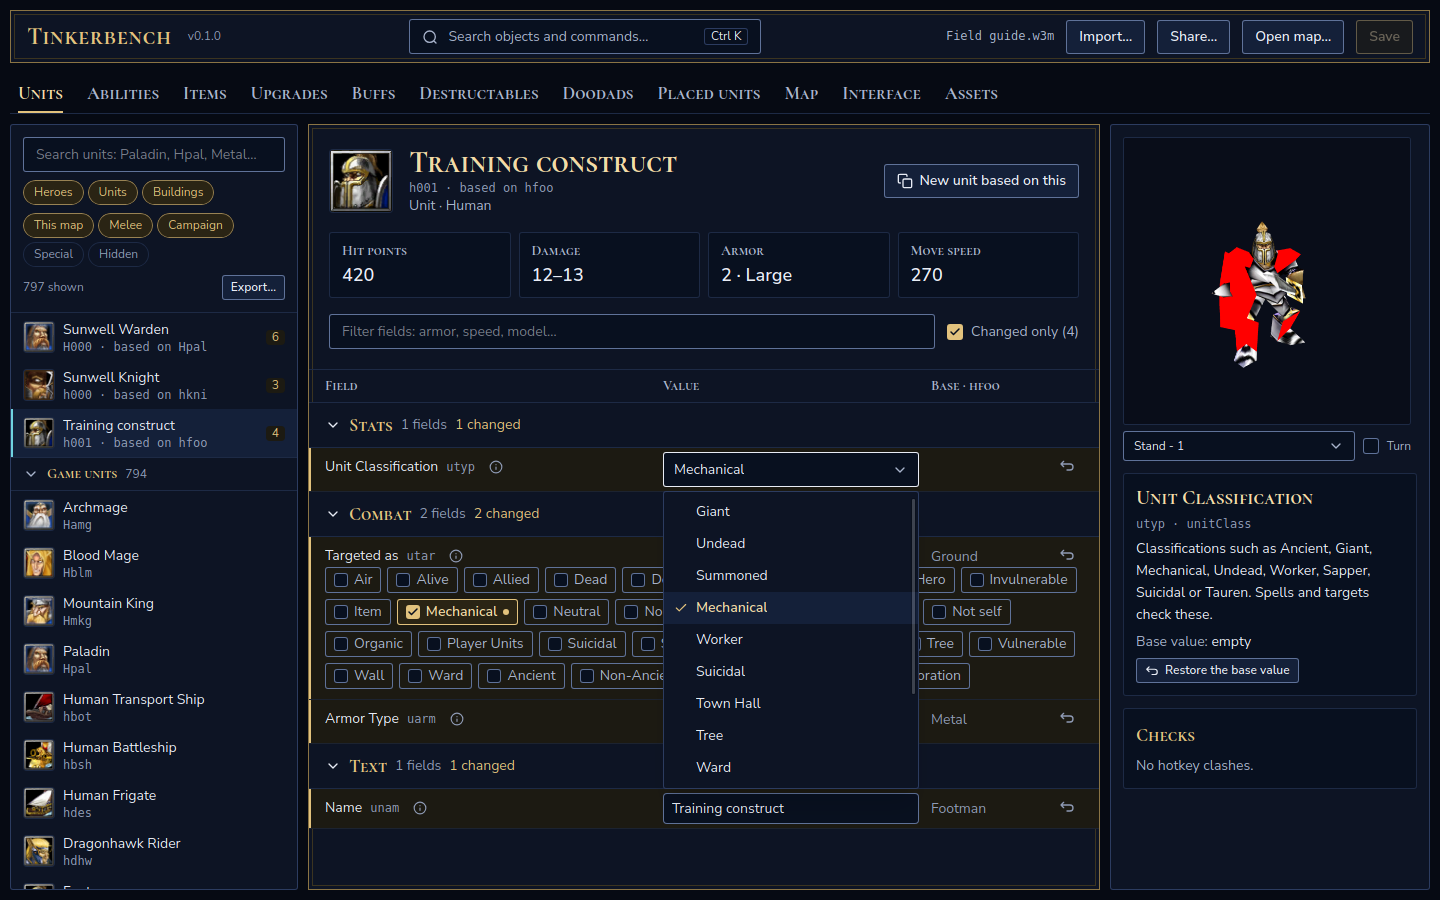
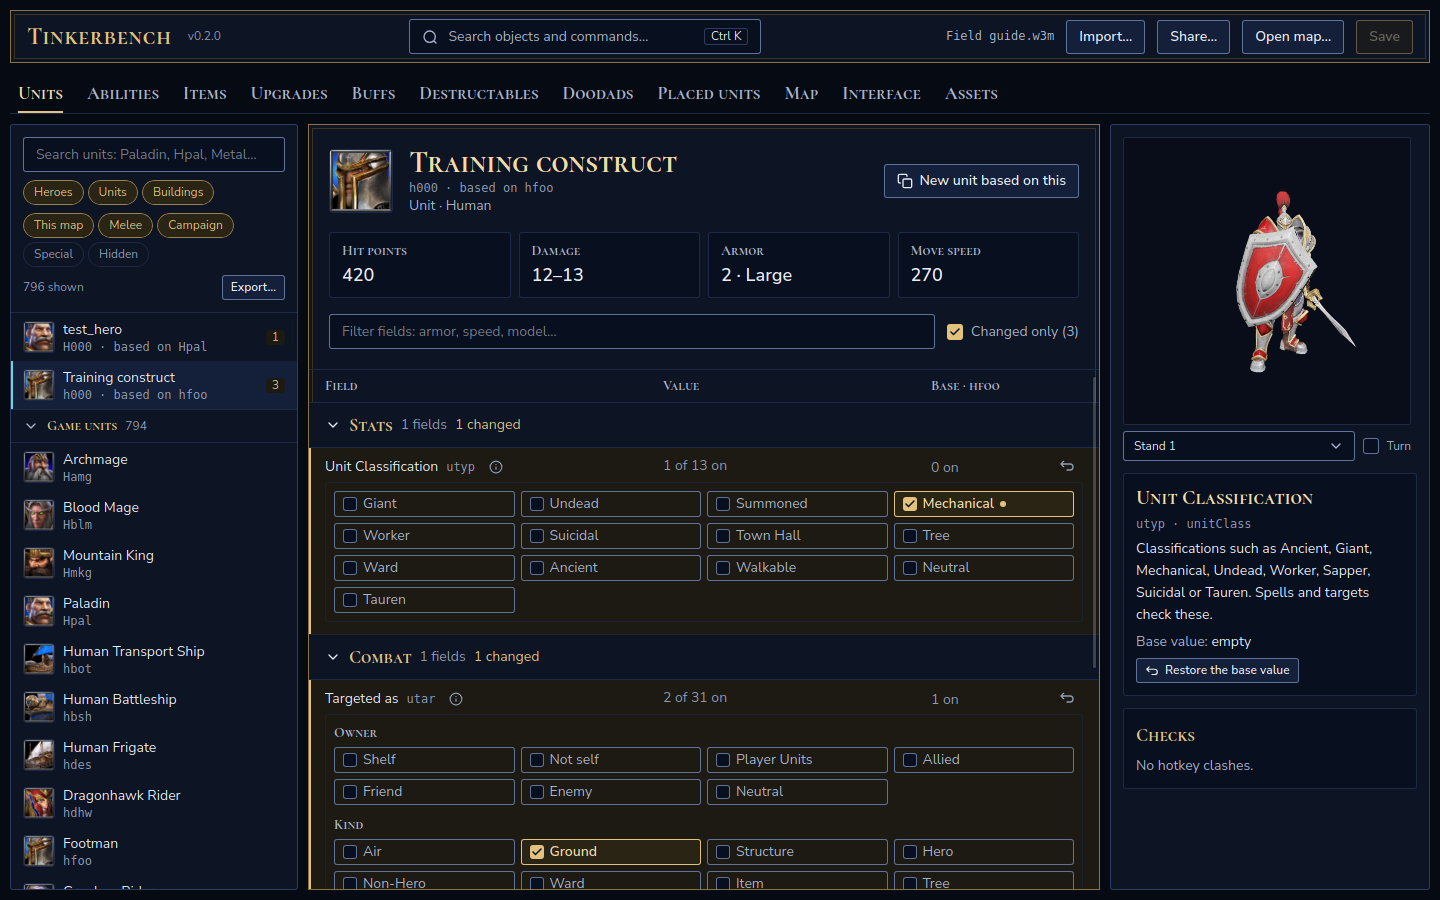
fix: Unit Classification as option chips (AGE-71)
- FieldMeta::is_list names the value types holding comma lists: the
  List suffix plus unitClass and the two pathing types; build_field uses
  it, so Classification and building placement show option chips.
- The object-editing guide's options screenshot, its text and the
  release notes template no longer describe a Classification drop-down.

diff --git a/object-editor/crates/wc3-data/src/meta.rs b/object-editor/crates/wc3-data/src/meta.rs
@@ -32,6 +32,14 @@ const NUMBER_CHOICE_TYPES: &[&str] = &[
     "fullFlags",
 ];
 
+/// Value types holding a comma list (`tilesetList`, `targetList`, `abilityList`).
+const LIST_SUFFIX: &str = "List";
+
+/// Choice types that hold comma lists although their names do not end in
+/// `List`: classifications (`TownHall,Mechanical`) and the pathing types a
+/// building's placement prevents or requires.
+const OTHER_LIST_TYPES: &[&str] = &["unitClass", "pathingListPrevent", "pathingListRequire"];
+
 #[derive(Debug, Clone, Copy, PartialEq, Eq)]
 pub enum ObjectKind {
     Hero,
@@ -109,6 +117,11 @@ impl FieldMeta {
 
     pub fn is_bit_flags(&self) -> bool {
         BIT_FLAG_TYPES.contains(&self.value_type.as_str())
+    }
+
+    pub fn is_list(&self) -> bool {
+        self.value_type.ends_with(LIST_SUFFIX)
+            || OTHER_LIST_TYPES.contains(&self.value_type.as_str())
     }
 
     /// Whether maps store the value as an integer: numbers, booleans, bit
@@ -212,6 +225,34 @@ mod tests {
         assert_eq!(fields[0].index, None);
         assert!(fields[0].applies_to(ObjectKind::Hero));
         assert!(!fields[0].applies_to(ObjectKind::Item));
+    }
+
+    fn field_of_type(value_type: &str) -> FieldMeta {
+        let text = format!(
+            "ID;P\nC;X1;Y1;K\"ID\"\nC;X2;K\"field\"\nC;X3;K\"slk\"\nC;X4;K\"index\"\n\
+             C;X5;K\"type\"\nC;X1;Y2;K\"utyp\"\nC;X2;K\"type\"\nC;X3;K\"UnitBalance\"\n\
+             C;X4;K-1\nC;X5;K\"{value_type}\"\n"
+        );
+
+        parse_metadata(&Slk::parse(&text).unwrap())
+            .unwrap()
+            .remove(0)
+    }
+
+    #[test]
+    fn lists_include_classifications_and_pathing() {
+        for list in [
+            "targetList",
+            "abilityList",
+            "unitClass",
+            "pathingListPrevent",
+        ] {
+            assert!(field_of_type(list).is_list(), "{list}");
+        }
+
+        for single in ["attackType", "itemClass", "unitRace", "string"] {
+            assert!(!field_of_type(single).is_list(), "{single}");
+        }
     }
 
     #[test]

diff --git a/object-editor/app/src-tauri/src/view.rs b/object-editor/app/src-tauri/src/view.rs
@@ -13,7 +13,6 @@ use wc3_map::units::{MapUnit, MapUnits};
 const CATEGORY_ORDER: &[&str] = &[
     "stats", "combat", "abil", "text", "art", "move", "path", "sound", "tech", "editor", "data",
 ];
-const ENUM_LIST_SUFFIX: &str = "List";
 const TEXT_CATEGORY: &str = "text";
 const ATTRIBUTES: [(&str, &str); 3] = [("STR", "ustr"), ("AGI", "uagi"), ("INT", "uint")];
 const LONG_TEXT_FIELDS: &[&str] = &["utub", "upro", "ides", "aub1", "auu1", "arut"];
@@ -578,7 +577,7 @@ pub fn build_field(
     value: FieldValue,
 ) -> Field {
     let options = db.enum_values(&field.value_type).unwrap_or_default();
-    let is_list = field.value_type.ends_with(ENUM_LIST_SUFFIX);
+    let is_list = field.is_list();
 
     let control = match field.value_type.as_str() {
         "bool" => "bool",

diff --git a/website/src/content/docs/editor/objects.md b/website/src/content/docs/editor/objects.md
@@ -25,19 +25,21 @@ For help choosing, [compare Armor Type, Defense Type and Defense Base](../../ref
 
 ## Checkboxes and option chips
 
-Fields with several allowed options, such as **Targets Allowed** and **Targeted as**,
-show wrapping chips. Select a chip to toggle that option. Checked
-options are gold; a gold dot marks an option that differs from the game's value. Ordinary
-on/off fields use a gold checkbox with a check mark.
+Fields with several allowed options, such as **Targets Allowed**, **Targeted as**,
+**Unit Classification** and a building's placement pathing, show their options as chips in
+columns under the field; target lists group them by owner, kind and state. Select a chip to
+toggle that option. Checked options are gold; a gold dot marks an option that differs from
+the game's value, and the game value column counts how many are on. Ordinary on/off fields
+use a gold checkbox with a check mark.
 
 Drop-downs use the app's styling for both the field and the open menu; keyboard focus has
 a light ring, and a focused text box has a light edge.
 
 <figure class="app-screenshot">
   <a href="../../screenshots/objects-options.png">
-    <img src="../../screenshots/objects-options.png" alt="Training construct&#x27;s changed fields, with Targeted as checkbox chips, a gold dot on Mechanical and the Unit Classification dropdown open." width="1440" height="900" loading="lazy" />
+    <img src="../../screenshots/objects-options.png" alt="Training construct&#x27;s changed fields: Unit Classification chips with Mechanical checked and marked changed, and Targeted as chips grouped under Owner and Kind." width="1440" height="900" loading="lazy" />
   </a>
-  <figcaption>Targeted as uses wrapping chips; the gold dot marks Mechanical as changed. Unit Classification currently uses a dropdown.<span class="screenshot-notice">Image subject to change.</span></figcaption>
+  <figcaption>Unit Classification and Targeted as use option chips; the gold dot marks Mechanical as changed.<span class="screenshot-notice">Image subject to change.</span></figcaption>
 </figure>
 
 ## Damage and bounty dice

diff --git a/docs/devlog.md b/docs/devlog.md
@@ -4,6 +4,25 @@ The technical story of Tinkerbench, newest first: what changed, why, and what we
 Users read the [changelog](../CHANGELOG.md) instead, where performance and internal work is a
 single line. Every pull request adds an entry here and to the changelog.
 
+## 2026-11-03 · Unit Classification as option chips (AGE-71)
+
+- `build_field` (`view.rs`) gave a choice field chips only when its value type ended in
+  `List`; `unitClass` fell through to the single-choice select. A scan of the game's unit and
+  item tables found comma lists in only three choice fields: Targets Allowed (`targetList`),
+  splash targets (`targetList`) and Classification (`unitClass`, 74 units, e.g. the Castle's
+  `TownHall,Mechanical`). The pathing types (`pathingListPrevent`/`Require`) hold single
+  values in the game data but are lists in the World Editor.
+- `FieldMeta::is_list` (`wc3-data::meta`) now says which types are lists: the `List` suffix
+  plus those three; `build_field` uses it. Values are matched without case and unknown items
+  are kept when toggling, as for target lists, so the game's capitalized values load as is.
+- Checked in the app on a scratch copy of the test map: the Dragonhawk Rider with Undead and
+  Mechanical saved as `Mechanical, Undead` (read back with `wc3map unit`), reopened with both
+  chips on, and reset left the field empty in the saved map; the Human Frigate shows the
+  game's Mechanical, and the Farm's placement fields show Buildable.
+- The object-editing guide's options screenshot showed the Classification drop-down; it is
+  recaptured with the chips (and the grouped targets), and the release notes template drops
+  the limitation.
+
 ## 2026-11-03 · Split the frontend bundle (AGE-70)
 
 - The production build was one 1,013 kB chunk, over Vite's 500 kB warning. Measured with a

diff --git a/website/README.md b/website/README.md
@@ -92,8 +92,8 @@ the same checks and uploads a static site artifact. No Warcraft installation is 
   disposable Lua map with a Footman, a level-3 Paladin and one player. Capture the real
   automatic-loading screen before it finishes; do not simulate it or change the app's UI.
   Set up Sunwell Warden with 10 base damage, two six-sided dice and 22 Strength (34–44,
-  average 39), and a Training construct with Mechanical selected under Targeted as. Unit
-  Classification currently uses a dropdown, not chips. Give Sunwell Light an
+  average 39), and a Training construct with Mechanical checked under Unit Classification
+  and Targeted as, the classification's information shown. Give Sunwell Light an
   intentionally incomplete color code, unmatched reset and unresolved placeholder, and open
   Formatting help. For Creep rewards, use 0.2%, 5% and 100% tiers so the warning and rounded
   chances are visible. Set a custom force and fog/weather/water settings, and edit the

diff --git a/.github/release-notes.md b/.github/release-notes.md
@@ -32,7 +32,6 @@ distribution, package type, game build and SD/HD mode actually exercised. -->
 
 ## Known limitations
 
-- Unit Classification takes a single choice, while the game allows several.
 - Placed units and Map tab changes reach the game only when Tinkerbench can rewrite the map
   script's World Editor parts exactly; otherwise the tab says so, and saving the map in the
   World Editor applies them. This was tested on Lua maps, not yet on JASS maps.

diff --git a/CHANGELOG.md b/CHANGELOG.md
@@ -10,6 +10,13 @@ under "What's new".
 
 - Performance improvements.
 
+### Fixed
+
+- Unit Classification takes several choices, as in the game and the World Editor (a building
+  can be both a Town Hall and Mechanical): its options are chips instead of a single-choice
+  drop-down. So are the Placement Requires and Placement Prevented By pathing fields of
+  buildings.
+
 ## 0.2.0 - 2026-11-03
 
 ### Added
